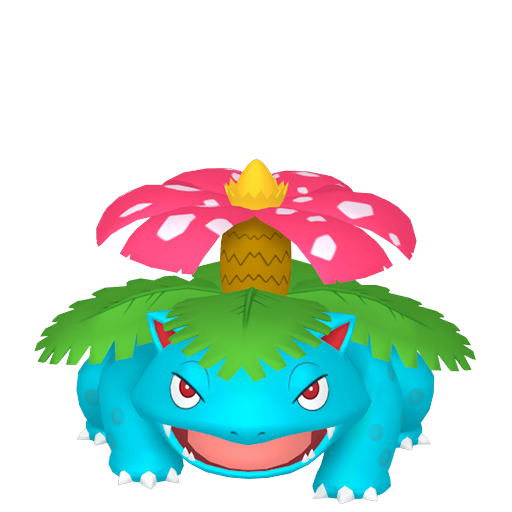
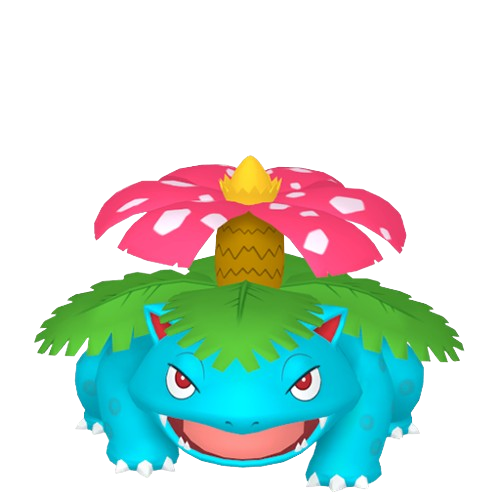
modif images

diff --git a/app/BackEnd/Scene/Scene_Back.py b/app/BackEnd/Scene/Scene_Back.py
@@ -1,61 +1,58 @@
-#!/usr/local/bin/python3
-# -*- coding: utf-8 -*-
 import pygame
 import sys
-import os
-class Scene:
-    
-    def __init__(self):
-        pygame.init()
-        self.largeur = 1520
-        self.hauteur = 825
-        self.fenetre = pygame.display.set_mode((self.largeur, self.hauteur))
-        pygame.display.set_caption("pokégame !")
-        dossier_assets = "app/assets/assets_scene"
-        assets_back = "backcombat.png"
-        chemin_back = os.path.join(dossier_assets, assets_back)
-        self.fond = pygame.image.load(chemin_back).convert()
-        
-    def combat(self, description, combat=None, ajout_pokedex=None):
-        self.description = description
-        self.combat = combat
-        self.ajout_pokedex = ajout_pokedex
-          
-    def afficher_description(self):
-        print(self.description)
-        
-    def lancer_combat(self):
-        if self.combat:
-            print("Combat en cours...")
-            # Logique de combat ici
-            
-            # Supposons qu'un Pokémon nommé "Pikachu" a été vaincu
-            pokemon_vaincu = "Pikachu"
-            
-            # Ajouter le Pokémon vaincu au Pokedex
-            if self.ajout_pokedex:
-                self.ajout_pokedex.ajouter_pokemon(pokemon_vaincu)
-        else:
-            print("Pas de combat dans cette scène.")
-            
-    def effectuer_ajout_pokedex(self):
-        if self.ajout_pokedex:
-            print("Ajout au Pokedex en cours...")
-            self.ajout_pokedex.sauvegarder_vers_json()
-        else:
-            print("Pas d'ajout au Pokedex dans cette scène.")
 
-if __name__ == "__main__":
-    scene = Scene()
-    running = True
-    while running:
-        for evenement in pygame.event.get():
-            if evenement.type == pygame.QUIT:
-                running = False
+# Initialisation de Pygame
+pygame.init()
 
-        scene.fenetre.fill((255, 255, 255))
-        scene.fenetre.blit(scene.fond, (0, 0))
-        pygame.display.flip()
+# Couleurs
+BLANC = (255, 255, 255)
+NOIR = (0, 0, 0)
+GRIS = (169, 169, 169)
 
-    pygame.quit()
-    sys.exit()
+# Dimensions de la fenêtre
+largeur, hauteur = 1520, 825
+
+# Création de la fenêtre
+ecran = pygame.display.set_mode((largeur, hauteur))
+pygame.display.set_caption("Arène Pokémon")
+
+# Chargement de l'image de fond
+fond = pygame.image.load('app/assets/assets_scene/backcombat.png')
+fond = pygame.transform.scale(fond, (largeur, hauteur))
+
+# Classe Pokémon
+class Pokemon(pygame.sprite.Sprite):
+    def __init__(self, image, x, y, largeur, hauteur):
+        super().__init__()
+        self.image = pygame.image.load(image)
+        self.image = pygame.transform.scale(self.image, (largeur, hauteur))
+        self.rect = self.image.get_rect()
+        self.rect.center = (x, y)  # Utiliser center au lieu de x, y
+
+    def afficher(self):
+        ecran.blit(self.image, self.rect)
+
+# Taille réduite du Pokémon
+pokemon_largeur, pokemon_hauteur = 225, 225
+
+# Position initiale du Pokémon
+position_initiale = (largeur // 2 + 145, hauteur // 2 - 200)
+
+# Initialiser le Pokémon à la position initiale
+pokemon = Pokemon('app/assets/assets_pokemon/bulbizarre.png', *position_initiale, pokemon_largeur, pokemon_hauteur)
+
+# Boucle principale
+while True:
+    for event in pygame.event.get():
+        if event.type == pygame.QUIT:
+            pygame.quit()
+            sys.exit()
+
+    # Dessiner l'image de fond
+    ecran.blit(fond, (0, 0))
+
+    # Dessiner le Pokémon
+    pokemon.afficher()
+
+    # Mise à jour de l'affichage
+    pygame.display.flip()
